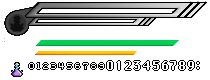
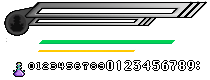
Hud totalmente funcional

diff --git a/hud.cpp b/hud.cpp
@@ -13,20 +13,79 @@
 
 #include <iostream>
 #include <SFML/Graphics.hpp>
+#include "player.h"
 #include "hud.h"
 #include "juegoHud.h"
 
+using namespace std;
+
 Hud::Hud() {
     
-    //Se genera la textura y se asigna a los sprites
+    //Inicializar variables
+    contrarreloj = false;
+    elixir = false;
     texturaHud = juego->establecerTexturas("/home/fv/NetBeansProjects/Crazy-Carnival/resources/HUD.png");
     spRecipVida.setTexture(texturaHud);
     spVida.setTexture(texturaHud);
+    spEnfriamiento.setTexture(texturaHud);
+    spElixir.setTexture(texturaHud);
+    spriteTimerSeg = 0;
+    spriteTimerSeg1 = 0;
+    spriteTimerMin = 36;
     
+    for(int i = 0; i < 5; i++)
+    {
+        spContador[i].setTexture(texturaHud);
+    }
+        
     //Se elige el sprite del sheet
-    spRecipVida.setTextureRect(sf::IntRect(0*40, 0*210, 40, 210));
+    spRecipVida.setTextureRect(sf::IntRect(0*210, 0*40, 210, 40));
     //Se sitúa el centro del sprite y su ubicación
-    spRecipVida.setOrigin(40/2, 210/2);
+    spRecipVida.setOrigin(210/2, 40/2);
+    spRecipVida.setPosition(210/2, 40/2);
+    
+    spVida.setTextureRect(sf::IntRect(3*13, 2*20, 136, 4));
+    spVida.setOrigin(136/2, 4/2);
+    spVida.setPosition(212/2, 22/2);
+    
+    spEnfriamiento.setTextureRect(sf::IntRect(2*19, 2*25, 0*97, 2));
+    spEnfriamiento.setOrigin(98/2, 2/2);
+    spEnfriamiento.setPosition(174/2, 42/2);
+    
+    spElixir.setTextureRect(sf::IntRect(1*13, 4*15.5, 12, 15));
+    spElixir.setOrigin(12/2, 16/2);
+    spElixir.setPosition(34/2, 48/2);
+    
+    for(int i = 0; i < 5; i++)
+    {
+        switch(i){
+            case 0:
+                spContador[i].setTextureRect(sf::IntRect(106, 60, 9, 11));
+                spContador[i].setOrigin(10/2, 12/2);
+                spContador[i].setPosition(591, 20);
+                break;
+            case 1:
+                spContador[i].setTextureRect(sf::IntRect(151, 60, 9, 11));
+                spContador[i].setOrigin(10/2, 12/2);
+                spContador[i].setPosition(600, 20);
+                break;
+            case 2:
+                spContador[i].setTextureRect(sf::IntRect(196, 61, 4, 9));
+                spContador[i].setOrigin(4/2, 10/2);
+                spContador[i].setPosition(607, 20);
+                break;
+            case 3:
+                spContador[i].setTextureRect(sf::IntRect(106, 60, 9, 11));
+                spContador[i].setOrigin(10/2, 12/2);
+                spContador[i].setPosition(614, 20);
+                break;
+            case 4:
+                spContador[i].setTextureRect(sf::IntRect(106, 60, 9, 11));
+                spContador[i].setOrigin(10/2, 12/2);
+                spContador[i].setPosition(623, 20);
+                break;
+        }
+    }
 }
 
 Hud::Hud(const Hud& orig) {
@@ -34,4 +93,76 @@ Hud::Hud(const Hud& orig) {
 
 Hud::~Hud() {
 }
+void Hud::draw(sf::RenderWindow& window){
+    window.draw(spVida);
+    window.draw(spEnfriamiento);
+    window.draw(spRecipVida);
+    if(elixir)
+        window.draw(spElixir);
+    if(contrarreloj)
+    {
+        for(int i = 0; i < 5; i++)
+        {
+            window.draw(spContador[i]);
+        }
+    }   
+}
+void Hud::cambiarTexturaContador(){
+    
+    if(spriteTimerSeg == 0){
+        spriteTimerSeg = 81;
+        if(spriteTimerSeg1 == 0){
+            spriteTimerSeg1 = 45;
+            spContador[1].setTextureRect(sf::IntRect(106 + spriteTimerMin, 60, 9, 11));
+            spriteTimerMin -= 9;
+        }
+        else
+        {
+            spriteTimerSeg1 -= 9;
+        }
+        spContador[3].setTextureRect(sf::IntRect(106 + spriteTimerSeg1, 60, 9, 11));
+    }
+    else
+    {
+        spriteTimerSeg -= 9;
+    }
+    spContador[4].setTextureRect(sf::IntRect(106 + spriteTimerSeg, 60, 9, 11));
+}
+void Hud::modificarVida(float modificador){
+    float porcentBarra;
+    
+    vida += modificador;
+    porcentBarra = vida / totalVida;
+    if(vida > totalVida)
+    {
+        vida = totalVida;
+    }
 
+    spVida.setTextureRect(sf::IntRect(3*13, 2*20, porcentBarra * 136, 4));
+}
+void Hud::modificarEnfriamiento(float modificador){
+    float porcentBarra;
+    enfriamiento += modificador;
+    porcentBarra = enfriamiento / totalEnfriamiento;
+    if(enfriamiento > totalEnfriamiento)
+    {
+        enfriamiento = totalEnfriamiento;
+    }
+    spEnfriamiento.setTextureRect(sf::IntRect(2*19, 2*25, porcentBarra * 97, 2));
+}
+void Hud::modoContrarreloj(){
+    if(contrarreloj){
+        contrarreloj = false;
+    }
+    else{
+        contrarreloj = true;
+    }
+}
+void Hud::elixirEncontrado(){
+    if(elixir){
+        elixir = false;
+    }
+    else{
+        elixir = true;
+    }
+}

diff --git a/juegoHud.cpp b/juegoHud.cpp
@@ -13,17 +13,23 @@
 
 #include <iostream>
 #include <SFML/Graphics.hpp>
+#include "player.h"
+#include "hud.h"
 #include "juegoHud.h"
 
 using namespace std;
 
 JuegoHud::JuegoHud() {
+    hud = new Hud();
+    reloj = new sf::Clock();
+    tiempo = new sf::Time();
 }
 
 //JuegoHud::JuegoHud(const juegoHud& orig) {
 //}
 
 JuegoHud::~JuegoHud() {
+
 }
 sf::Texture JuegoHud::establecerTexturas(sf::String direccion)
 {
@@ -35,4 +41,68 @@ sf::Texture JuegoHud::establecerTexturas(sf::String direccion)
     }
     return textura;
 }
+void JuegoHud::loop(sf::RenderWindow &window){
+    
+    int i = 0;
+    
+   //Generamos la cámara
+   /* sf::View camara (sf::Vector2f(coches[0]->getSpriteCoche().getPosition().x,
+            coches[0]->getSpriteCoche().getPosition().y), sf::Vector2f(640, 480));*/
 
+    //Bucle del juego (necesario para cargar la ventana)
+    while (window.isOpen()){
+        
+        sf::Event event;
+        while (window.pollEvent(event))
+        {
+            
+            switch(event.type){
+                
+                //Si se recibe el evento de cerrar la ventana la cierro
+                case sf::Event::Closed:
+                    window.close();
+                    break;
+                    
+                //Se establecen las teclas del juego y su función
+                case sf::Event::KeyPressed:
+                    switch (event.key.code){
+                        
+                        case sf::Keyboard::Q:
+                            window.close();
+                            exit(0);
+                            break;
+                        
+                        //Controles para probar HUD
+                        case sf::Keyboard::D:
+                            hud->modificarVida(-6);
+                            break;
+                        case sf::Keyboard::C:
+                            hud->modificarVida(6);
+                            break;
+                        case sf::Keyboard::F:
+                            hud->modificarEnfriamiento(-6);
+                            break;
+                        case sf::Keyboard::V:
+                            hud->modificarEnfriamiento(6);
+                            break;
+                        case sf::Keyboard::E:
+                            hud->modoContrarreloj();
+                            break;
+                        case sf::Keyboard::R:
+                            hud->elixirEncontrado();
+                            break;
+                    }
+            }
+        }
+        window.clear();
+        hud->draw(window);
+        if((int) tiempo->asSeconds() == 1)
+        {
+            cout << "entra" <<endl;
+            reloj->restart();
+            hud->cambiarTexturaContador();
+        }    
+        *tiempo = reloj->getElapsedTime();
+        window.display();
+    }
+}

diff --git a/mainHudPlayers.cpp b/mainHudPlayers.cpp
@@ -1,0 +1,42 @@
+/*
+ * To change this license header, choose License Headers in Project Properties.
+ * To change this template file, choose Tools | Templates
+ * and open the template in the editor.
+ */
+
+/* 
+ * File:   mainHudPlayers.cpp
+ * Author: fv
+ *
+ * Created on March 25, 2018, 3:40 AM
+ */
+
+#include <iostream>
+#include <SFML/Graphics.hpp>
+#include <cstdlib>
+#include <ctime>
+#include "player.h"
+#include "hud.h"
+#include "juegoHud.h"
+
+using namespace std;
+
+/*
+ * 
+ */
+int main(int argc, char** argv) {
+
+     //Variables HUD
+    Hud *hud = new Hud();
+    JuegoHud *juego = new JuegoHud();
+    sf::Clock reloj;
+    sf::Time tiempo;
+    
+    //Pruebas HUD
+    sf::RenderWindow ventanaJuego(sf::VideoMode(640,480), "Crazy Carnival");
+    
+    juego->loop(ventanaJuego);
+    
+    return 0;
+}
+

diff --git a/hud.h b/hud.h
@@ -15,18 +15,33 @@
 #define HUD_H
 
 class JuegoHud;
-class Hud {
+class Player;
+class Hud : public Player {
 
 private:
     JuegoHud *juego;
     sf::Texture texturaHud;
     sf::Sprite spRecipVida;
     sf::Sprite spVida;
+    sf::Sprite spEnfriamiento;
+    sf::Sprite spElixir;
+    sf::Sprite spContador [5];
+    bool contrarreloj;
+    bool elixir;
+    int spriteTimerSeg;
+    int spriteTimerSeg1;
+    int spriteTimerMin;
     
 public:
     Hud();
     Hud(const Hud& orig);
     virtual ~Hud();
+    void draw(sf::RenderWindow &window);
+    void cambiarTexturaContador();
+    void modificarVida(float modificador);
+    void modificarEnfriamiento(float modificador);
+    void modoContrarreloj();
+    void elixirEncontrado();
 };
 
 #endif /* HUD_H */

diff --git a/juegoHud.h b/juegoHud.h
@@ -14,14 +14,18 @@
 #ifndef JUEGOHUD_H
 #define JUEGOHUD_H
 
-class JuegoHud {
+class JuegoHud{
 public:
     JuegoHud();
     //JuegoHud(const JuegoHud& orig);
     virtual ~JuegoHud();
     sf::Texture establecerTexturas(sf::String direccion);
+    void loop(sf::RenderWindow &window);
+    
 private:
-
+    Hud *hud;
+    sf::Clock *reloj;
+    sf::Time *tiempo;
 };
 
 #endif /* JUEGOHUD_H */

diff --git a/player.h b/player.h
@@ -19,8 +19,13 @@ public:
     Player();
     Player(const Player& orig);
     virtual ~Player();
-private:
-
+    float curar(float vRecuperada);
+    float danyo(float vPerdida);
+protected:
+    float vida;
+    float enfriamiento;
+    float totalVida;
+    float totalEnfriamiento;
 };
 
 #endif /* PLAYER_H */

diff --git a/player.cpp b/player.cpp
@@ -14,6 +14,11 @@
 #include "player.h"
 
 Player::Player() {
+    //pruebas jugador, variables
+    vida = 60.0;
+    enfriamiento = 0.0;
+    totalVida = vida;
+    totalEnfriamiento = 30.0;
 }
 
 Player::Player(const Player& orig) {
